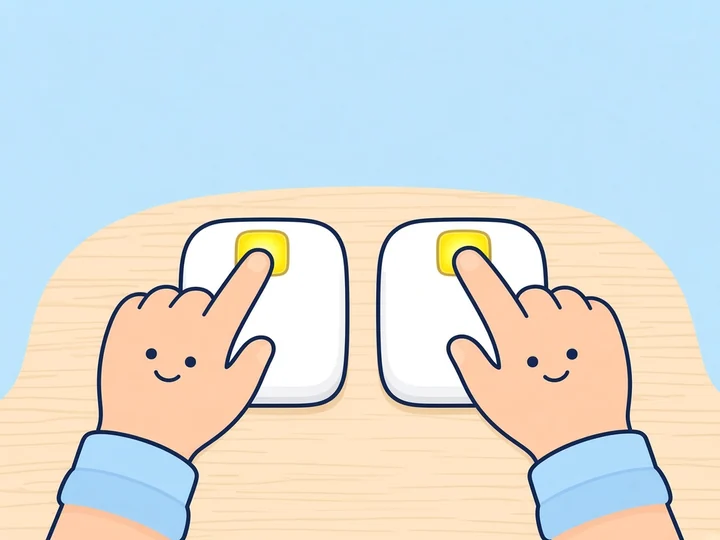
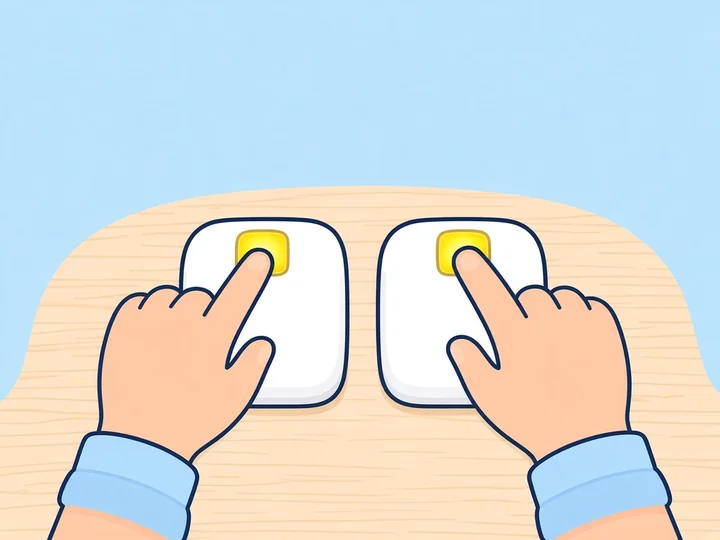
Soften the grip pictures and enlarge the bump letters.
The hand pictures are the face-free versions. ب and ت sit in the open white of each key, and each picture fades into its own sky.

diff --git a/games/mouse-keyboard-academy/style.css b/games/mouse-keyboard-academy/style.css
@@ -447,9 +447,12 @@ button:focus-visible {
   gap: 4%;
   border-radius: 28px;
   overflow: hidden;
-  background: #c2e8fd;
+  background: #c3e8ff;
   container-type: size;
 }
+.grip-stage.sky-right { background: #bee6ff; }
+.grip-stage.sky-keys { background: #bbe3fc; }
+.grip-stage.sky-sit { background: #c2e7fe; }
 .grip-bar { flex: 0 0 auto; min-height: 72px; display: flex; align-items: center; justify-content: center; gap: 16px; }
 .replay {
   width: 68px;
@@ -499,6 +502,12 @@ button:focus-visible {
   object-fit: contain;
   display: block;
   pointer-events: none;
+  mask-image:
+    linear-gradient(to right, transparent, #000 6%, #000 94%, transparent),
+    linear-gradient(to bottom, transparent, #000 6%, #000 94%, transparent);
+  mask-composite: intersect;
+  mask-repeat: no-repeat;
+  mask-size: 100% 100%;
 }
 .halo {
   position: absolute;
@@ -510,8 +519,8 @@ button:focus-visible {
   background: radial-gradient(circle, rgba(255, 228, 60, 0.72) 0%, rgba(255, 210, 40, 0.28) 48%, rgba(255, 210, 40, 0) 72%);
   animation: halo 1.1s ease-in-out infinite;
 }
-.halo.left { left: 38.3%; top: 25.4%; }
-.halo.right { left: 46.4%; top: 25.6%; }
+.halo.left { left: 38.6%; top: 25.3%; }
+.halo.right { left: 45.9%; top: 24.2%; }
 @keyframes halo {
   0%, 100% { opacity: 0.4; transform: scale(0.96); }
   50% { opacity: 1; transform: scale(1.08); }
@@ -519,8 +528,11 @@ button:focus-visible {
 .glyph {
   position: absolute;
   z-index: 2;
-  width: 14%;
-  height: 16%;
+  display: flex;
+  align-items: center;
+  justify-content: center;
+  width: 20%;
+  height: 26%;
   margin: 0;
   padding: 0;
   border: 0;
@@ -528,15 +540,15 @@ button:focus-visible {
   color: #1c2250;
   font: inherit;
   font-weight: 700;
-  font-size: 9cqh;
+  font-size: 33cqh;
   line-height: 1;
   cursor: pointer;
   transform: translate(-50%, -50%);
 }
-/* The picture's right hand (thumb on the outer left, same as the mouse hand)
-   lands on the left key, so ب (F) sits there and ت (J) sits on the right key. */
-.glyph.f { left: 36.9%; top: 45.7%; }
-.glyph.j { left: 63.7%; top: 45.7%; }
+/* The right hand lands on the left key. ب sits in that key's open white,
+   beside the finger and below the bump. ت mirrors it on the right key. */
+.glyph.f { left: 38.6%; top: 54%; }
+.glyph.j { left: 62.8%; top: 54%; }
 .poses .straight { position: absolute; inset: 0; opacity: 0; }
 .pose { transition: opacity 0.45s ease; }
 .child.sat .slouch { opacity: 0; }

diff --git a/games/mouse-keyboard-academy/game.js b/games/mouse-keyboard-academy/game.js
@@ -528,7 +528,8 @@
   }
   function renderGrip() {
     gripReady = gripCard === 4;
-    view.innerHTML = '<div class="grip"><div class="grip-stage go">' + gripScene() + '</div>' +
+    var sky = ['sky-mouse', 'sky-right', 'sky-mouse', 'sky-keys', 'sky-sit'][gripCard];
+    view.innerHTML = '<div class="grip"><div class="grip-stage go ' + sky + '">' + gripScene() + '</div>' +
       '<div class="grip-bar"><button type="button" class="replay" data-act="grip-replay" aria-label="أعد">🔊</button>' +
       '<b class="yay" hidden>أحسنت!</b>' +
       '<button type="button" class="next' + (gripReady ? ' target' : '') + '" id="btnGripNext" data-act="grip-next"' + (gripReady ? '' : ' hidden') +

diff --git a/docs/PERFORMANCE.md b/docs/PERFORMANCE.md
@@ -551,13 +551,13 @@ change; another game will again need room made or a decision like this one.
 
 ## Mouse & Keyboard Academy, 25 October 2026
 
-The grip lesson is five picture screens for children who are not reading yet. The drawn glove was replaced with illustrations for the non-reader grip lesson: five WebP pictures at 720×540 (a left-button mouse, a right-button mouse, the two bump keys, a slouch, and sitting up straight). The slide screen reuses the left-button picture. The page itself got smaller because the hand-drawn SVG markup came out.
+The grip lesson is five picture screens for children who are not reading yet. The drawn glove was replaced with illustrations for the non-reader grip lesson: five WebP pictures at 720×540 (a left-button mouse, a right-button mouse, the two bump keys, a slouch, and sitting up straight). The three hand pictures have no faces. The slide screen reuses the left-button picture. Each grip screen uses that picture's own sky color, and the picture edges fade about 6% so the rectangle blends into the stage. The page itself got smaller because the hand-drawn SVG markup came out.
 
 | Measurement | Bytes | Limit |
 | --- | ---: | ---: |
-| Mouse & Keyboard Academy | 74,295 | 82,000 (was 77,000; before that 84,000, 81,000, and originally 56,000) |
-| Offline precache, 51 files | 5,202,606 | 5,210,000 (was 5,135,000; before that 5,130,000 and 5,100,000) |
-| Five grip illustrations | 95,702 | — |
+| Mouse & Keyboard Academy | 74,999 | 82,000 (was 77,000; before that 84,000, 81,000, and originally 56,000) |
+| Offline precache, 51 files | 5,203,538 | 5,210,000 (was 5,135,000; before that 5,130,000 and 5,100,000) |
+| Five grip illustrations | 95,930 | — |
 
-The pictures add 95,702 bytes. The minified page shrank by 5,635 bytes, from 79,930 to 74,295, so it still fits the 82,000 page limit with 7,705 bytes left. The precache grew by 90,067 bytes, from 5,112,539 to 5,202,606, which is why its limit moved up by 75,000 bytes. 7,394 bytes remain under the precache limit. The build copies each game's WebP and AVIF files into the offline cache.
+The pictures add 95,930 bytes. The minified page is 74,999 bytes, down from 79,930 when the pictures were still drawn in SVG, so it still fits the 82,000 page limit with 7,001 bytes left. The precache grew from 5,112,539 to 5,203,538, which is why its limit moved up by 75,000 bytes. 6,462 bytes remain under the precache limit. The build copies each game's WebP and AVIF files into the offline cache.
 
